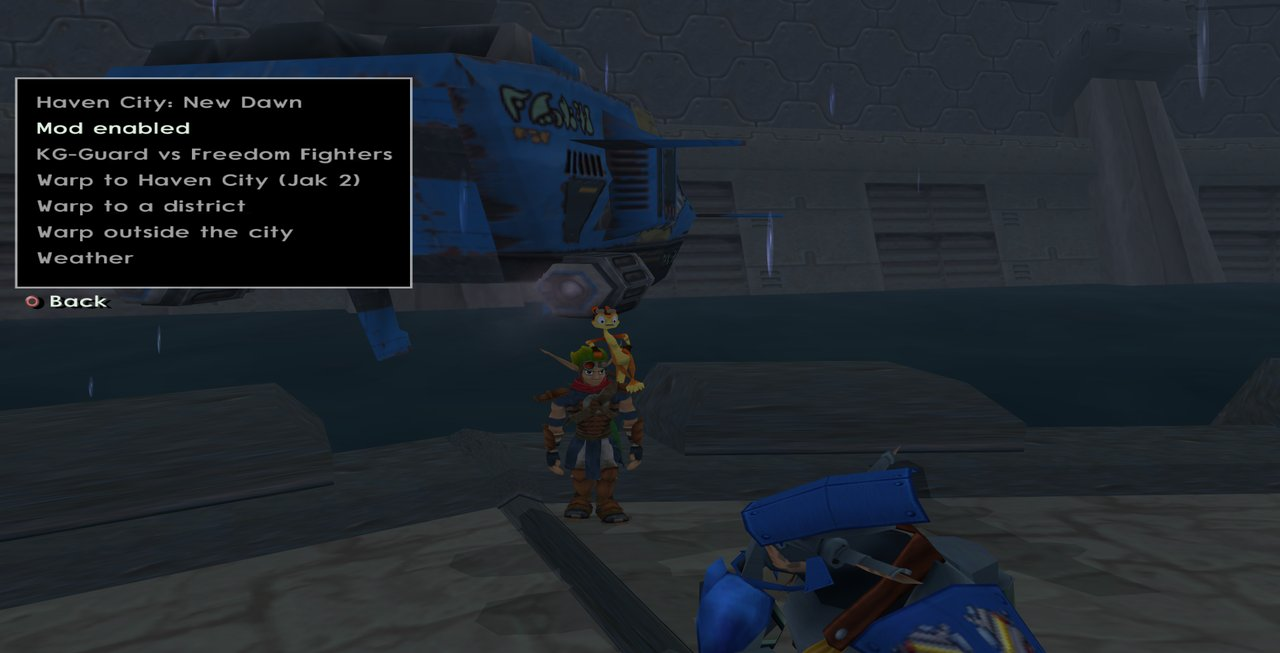
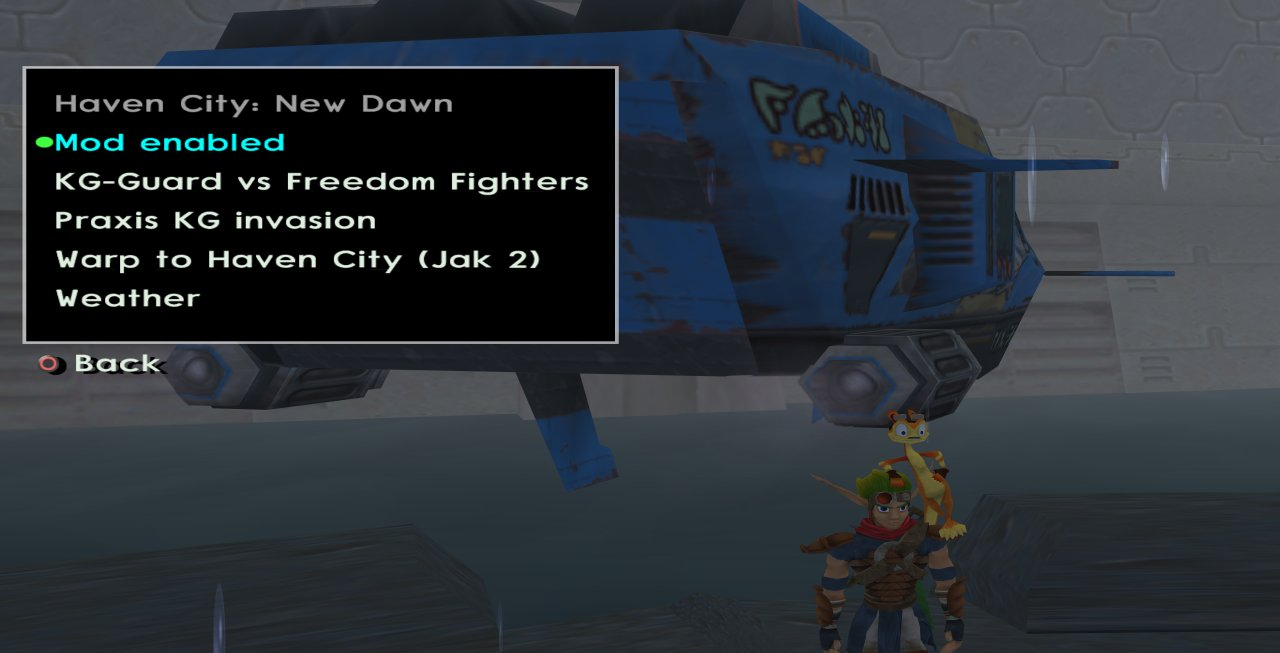
docs: invasion, alert end, war ships, new screenshots (AI-assisted)

diff --git a/docs/modding/current_mod/haven_city_new_dawn_readme.md b/docs/modding/current_mod/haven_city_new_dawn_readme.md
@@ -22,8 +22,9 @@ places, the traffic, the sound, the tools) is in
 ## 1. The mod in one page
 
 The mod puts Jak 2's Haven City and the places around it inside Jak 3, as they are at the end of
-Jak 2, and adds a war mode where Jak 2's Krimzon Guards fight Jak 3's Freedom League. Three kinds
-of work make it:
+Jak 2, and adds two war modes: in Jak 2's world, Jak 2's Krimzon Guards fight Jak 3's Freedom
+League; in Jak 3's city, once its story is over, Praxis's Krimzon Guard invades the conflict zones
+chosen in the menu. Three kinds of work make it:
 
 | Kind | Where | Made by |
 |---|---|---|
@@ -33,7 +34,7 @@ of work make it:
 
 Two rules shape every change:
 
-- **Off by default.** The mod and its war mode are off at each boot. Off, Jak 3 behaves as the
+- **Off by default.** The mod and its war modes are off at each boot. Off, Jak 3 behaves as the
   original game: every hook gives back Jak 3's own answer.
 - **Generated data is never edited by hand.** A fix to a level goes into the port's manifest or
   into the level port itself, then the level port runs again.
@@ -71,7 +72,7 @@ and continues on the next one.
 
 Example in the mod: the city's guard turret has an `idle` state (hidden under its lids) and a
 `hostile` state (popped up, firing). Every frame in `idle`, it checks whether Jak drives a vehicle
-nearby during an alert, and whether its color must change
+nearby during an alert, and turns its model blue if it isn't yet
 (`hj2-cty-guard-turret-color`, `goal_src/jak3/levels/havenj2/havenj2-obs.gc`).
 
 A `defbehavior` is a function that runs as a process (it can read `self`). The war's death cloud
@@ -154,6 +155,8 @@ The hooks the war mode and the color variants add:
 | `engine/ai/enemy.gc` (`'death-start`) | `hj2-war-death-start` | A Krimzon Guard's purple death cloud |
 | `levels/wascity/traffic-util.gc` | `hj2-war-cell-dist` | Units spawn further out during the war |
 | `levels/city/traffic/traffic-engine.gc` | (a test, no call) | No pedestrian spawned when its navigation mesh isn't loaded |
+| `levels/city/traffic/traffic-engine.gc` (`activate-by-type`, `activate-from-params`) | `hj2-invasion-spawn-ok?`, `hj2-war-wake-ok?` | Praxis KG invasion: which units come out in a conflict zone, and which of the pooled guards goes out on a street ([5.9](#59-praxis-kg-invasion)) |
+| `levels/wascity/cty-faction.gc` (`cty-faction-manager-method-14`) | `hj2-invasion-permission` | Praxis KG invasion: a conflict zone's spawn permissions |
 
 ## 4. From Jak 2's disc to Jak 3 levels: the level port
 
@@ -202,9 +205,10 @@ what the level port can do with a model: [reference, 7](haven_city_new_dawn_refe
 ## 5. The war mode, step by step
 
 The war mode (Mods menu, "KG-Guard vs Freedom Fighters") puts Jak 2's Krimzon Guards against
-Jak 3's Freedom League in Jak 2's city and in Jak 3's own. It reuses Jak 3's traffic code: the
-guards are Jak 3's `crimson-guard`, the jetpack guards Jak 3's `flying-turret`. The mod only
-changes how they look, which side they are on and a few rules.
+Jak 3's Freedom League in Jak 2's city and the places around it. It never reaches Jak 3's city
+(`hj2-war-jak2-on?`): there, Praxis KG invasion takes over ([5.9](#59-praxis-kg-invasion)). It
+reuses Jak 3's traffic code: the guards are Jak 3's `crimson-guard`, the jetpack guards Jak 3's
+`flying-turret`. The mod only changes how they look, which side they are on and a few rules.
 
 ![A red jetpack guard firing over the slums](images/war-jetpack-guard.jpg)
 
@@ -221,8 +225,10 @@ when its process is made.
 
 ### 5.2 Looks and sides
 
-During the war, each new guard takes the look that is furthest below its share: 10 blue, 4 red
-rifles, 3 red grenade launchers, 2 yellow rifles, 1 yellow launcher, out of 20. A red or yellow
+During the war, each new guard takes the look that is furthest below its share in proportion: 10
+blue, 4 red rifles, 3 red grenade launchers, 2 yellow rifles, 1 yellow launcher, out of 20. In
+proportion, so that the first guards made alternate the sides: counted in guards missing, the
+blue look came first six times, and the traffic wakes a pool's first guards first. A red or yellow
 guard is drawn with Jak 2's model but plays the blue guard's clips, so it walks, shoots and dies
 exactly like one.
 
@@ -258,6 +264,13 @@ it: Krimzon Guards with the squad's weapons ran 4 times without a crash, with ri
 crashed 3 times in 4. The fix is one marked line: the off-screen change compares the weapon the
 guard would really get. Since then, 16 test runs of war, none crashed.
 
+The same hook hid a second bug. A transport wakes its guards with the weapon code 11, "keep the
+one you have", and a pooled blue guard then kept the squad's guard type for a vehicle's gunner,
+which no guard on foot has. Landing from the jump, it looked for its attack state by weapon, found
+none, and its code ran to its end, which kills a process: the blue guards vanished as they touched
+the ground. The hook now gives a blue guard of the war the rifle or the launcher for anything but
+those two.
+
 ### 5.4 The rifle butt
 
 Jak 3's guards strike with the rifle butt when their target is close. During the war two guards
@@ -292,6 +305,13 @@ The code and the evidence are in the wiki,
 [4.35](../../../.agents/skills/goal-lisp/wiki/jak3.md#435-build-actor-models-their-effects-the-death-cloud-another-mesh-at-runtime).
 
 ![A Krimzon Guard's death cloud](images/war-kg-death.jpg)
+
+The Krimzon Guards of the places around the city (`hj2-kg-soldier`, a `nav-enemy`) had a fourth
+cause: a guard's death clip doesn't run `death-default` itself, it sends the guard `'event-death`,
+and the guard's own event handler runs the effect. A `nav-enemy` ignores that event. The soldier
+now handles it like Jak 3's guard does (`jak2-haven-city-kg.gc`).
+
+![A Krimzon Guard of Dead Town dissolving](images/place-soldier-death.jpg)
 
 Checked side by side: a Krimzon Guard (top) and a blue guard (bottom) killed in front of Jak, shot
 2, 8, 16 and 30 frames after their cloud starts. Both play the same death clip at the same pace,
@@ -333,9 +353,61 @@ own tables stay as they are for Jak 3's city.
 
 A troop transport lands near Jak every 45 to 90 s and drops guards of its side, the two sides in
 turn: a red Krimzon Guard ship with red and yellow guards, a blue Freedom Fighters ship with blue
-guards. The Hellcats and guard bikes fly the lanes during the war too, half red, half blue.
+guards ([5.3](#53-weapons) for why the blue ones once vanished on landing).
 
-![A Freedom Fighters transport dropping a blue guard](images/war-transport-blue.jpg)
+![A Freedom Fighters transport dropping a blue guard](images/war-transport-blue-drop.jpg)
+
+The Hellcats and guard bikes fly the lanes during the war too, half red, half blue, and they are
+rare: one Hellcat and one guard bike at most (`HJ2_WAR_AIR_VEHICLES`, `hj2-guard-vehicle-caps`).
+Each is flown by a guard of its side: a red or yellow Krimzon Guard in a red one
+(`hj2-hellcat-pilot setup-lods`). Each goes after the other side (`hj2-war-vehicle-foe`, every
+frame while it has no target): a red one after the nearest blue guard on foot or Jak within 100 m,
+a blue one after the nearest red or yellow guard, never Jak (`hj2-war-vehicle-may-hunt-jak?`
+keeps it out of the alert's chase and of Jak's hits too). Seen in a test: a blue Hellcat with its
+blue pilot chasing a Krimzon Guard, a red bike with a red pilot chasing a blue guard.
+
+### 5.9 Praxis KG invasion
+
+The second war mode (Mods menu, "Praxis KG invasion"), in Jak 3's city once its story is over (its
+last boss beaten, `hj2-story-done?`). The faction praxis-kguard (the same red and yellow guards as
+the war's, and red jetpack guards) fights the Freedom League in the conflict zones picked in the
+menu, several at once, the port by default. In a zone the two sides are all there is: no KG robot,
+spydroid, Metal Head or Wastelander comes out there, even where Jak 3 had its own fight. Outside
+the zones the city is Jak 3's own, and no ship flies, of either side: no transport, no guard
+vehicle.
+
+![Krimzon Guards of the invasion at the Hip Hog's door, in Jak 3's port](images/invasion-port.jpg)
+
+A zone is a group of Jak 3's territories (`nav-territory-type`, each street of its navigation
+graph has one), the groups Jak 3's faction manager uses itself:
+
+| Menu entry | Jak 3's territories |
+|---|---|
+| Port | `port-ff-deep` to `port-ff-kg-border`, `port-ff-near-mh`, `port-ff-mh-border` |
+| Industrial Section | `inda-*`, `indb-*` (the KG robots' land) |
+| Slums | `sluma-*`, `slumb-ff-deep`, `slumc-ff-deep`, `genc-border`, `genc` |
+| Metal Head land | `mhcity-*` |
+
+![The invasion's submenu](images/menu-invasion.jpg)
+
+Three hooks hold the zones, each giving Jak 3's own answer outside them:
+
+| Hook | Called by | In a conflict zone |
+|---|---|---|
+| `hj2-invasion-permission` | `cty-faction-manager-method-14`, the spawn permission of a faction in a territory | The Freedom League's guards and the KG's slot are allowed (their borrow levels load: CTYPESA with both sides' guards, CTYPESC with the jetpack guards), the KG's pedestrians and the Metal Heads are not |
+| `hj2-invasion-spawn-ok?` | `activate-by-type`, before a unit goes out on a street | Only the two sides' guards, the jetpack guards and the citizens |
+| `hj2-war-wake-ok?` | `hj2-get-from-inactive` (added to `traffic-engine.gc`), the pick of a sleeping unit | A guard of either side, the side with fewer guards out first; outside a zone a Freedom League guard only. A jetpack guard in a zone, a stock flying turret elsewhere |
+
+The guards' pool holds both sides (half Freedom League, half Krimzon Guard, 20 guards; the flying
+turrets' half jetpack guards), so the third hook is what keeps the Krimzon Guards in the zones.
+The street a unit goes out on is only known in `activate-by-type`: it hands its territory to the
+pick through a global, because other wakes (a parking spot, a transport, a mission) give no street
+and left garbage where the pick read one.
+
+Test, with a save whose story isn't over (the test's own copy of `hj2-story-done?` answered yes; no
+task was closed, no save written): in the port, the guards woke alternately red and blue, fought,
+and only blue guards came out in the slums. That city state has few guards, so the zone looked
+thinner than a finished story's city will.
 
 ## 6. Color variants
 
@@ -358,13 +430,13 @@ Where the game uses each color:
 
 | Object | Out of the war | During the war |
 |---|---|---|
-| Anti-air turret | Blue | Red; a hidden turret switches as the war starts or stops |
+| Anti-air turret | Blue | Blue (the city's turrets are the Freedom League's) |
 | Transport | (none) | Red for the Krimzon Guard's ships, blue for the Freedom Fighters' |
-| Hellcat | Jak 3's own | Half red, half blue (by process id) |
-| Guard bike | Blue | Half red, half blue |
+| Hellcat | Jak 3's own | Half red, half blue (by process id), one at most, a pilot of its side |
+| Guard bike | Blue | Half red, half blue, one at most, a rider of its side |
 | Jetpack guard | (none) | Red or blue, by side |
 
-![A blue anti-air turret, war mode off](images/turret-blue.jpg)
+![A blue anti-air turret](images/turret-blue.jpg)
 
 | | |
 |---|---|
@@ -559,7 +631,10 @@ clock (`*display*`'s `real-clock`) so that it goes on while a menu pauses the ga
 
 Each test run starts a fresh `gk` after the build, so it is a cold boot. The final run
 was a retail boot (`task boot-game-retail`'s arguments, no debug segment): the mod and the war
-switched on through the Mods menu's own entries, then 2 minutes of war. To see a vehicle up close,
+switched on through the Mods menu's own entries, the warp taken through the "Warp to Haven City
+(Jak 2)" submenu, then a minute of war. Praxis KG invasion needs Jak 3's story over: its scenario
+answers `hj2-story-done?` itself, in the temporary file only, so no task is closed and no save is
+written. To see a vehicle up close,
 the scenario puts Jak at its controls (`'change-mode 'pilot` with that vehicle): the camera follows
 it.
 
@@ -569,7 +644,12 @@ start fails. Saves and settings stay from one boot to the next
 
 ## 9. Known issues
 
-- **Not played by a player yet:** the war mode and the color variants were tested in boots driven by test scenarios,
-  the last one a retail boot ([8](#8-building-and-testing)).
+- **Not played by a player yet:** the war modes, the color variants and the alert's end were
+  tested in boots driven by test scenarios, the last one a retail boot ([8](#8-building-and-testing)).
+- **The turret and Dark Jak or Light Jak:** a city turret popping up as Jak turns into Dark Jak or
+  Light Jak was not seen in tests (it stayed down for both, war on or off); its check now leaves
+  them out by name.
+- **Praxis KG invasion with a finished story:** tested with a save whose story isn't over
+  ([5.9](#59-praxis-kg-invasion)).
 - **The repository's history** still holds `.glb` files, and the repository is public: [7](#7-what-the-repository-holds-and-what-it-doesnt).
 - More open points: [reference, 18](haven_city_new_dawn_reference.md#18-not-done-yet).

diff --git a/docs/modding/current_mod/haven_city_new_dawn_reference.md b/docs/modding/current_mod/haven_city_new_dawn_reference.md
@@ -445,13 +445,28 @@ in Jak 2's numbers.
 ### 8.3 Jak 2's alert
 
 **What you see:** hit a citizen or a guard, and the minimap flashes, the music turns to its alert
-mode (or the alarm sounds), and guards hunt Jak. 30 s without a new offence, the alert ends. Every
-8 kills raise it.
+mode (or the alarm sounds), and guards hunt Jak. Every 8 kills raise it. It ends like Jak 2's:
+
+| Alert | Ends |
+|---|---|
+| Low (level 1, the tazers' arrest) | 30 s after the last offence; the guards let go of Jak at once, the alarm stops 3 s later |
+| High (2 and up) | Once the 30 s are over and no guard or guard vehicle has seen Jak for 3 s: Jak loses them, or hides |
+
+Each new offence starts the 30 s again. Hiding against a wall (`target-hide`) drains them three
+times as fast, as in Jak 2.
 
 **How:** Jak 3 kept Jak 2's alert code (`ff-squad-control-method-45`) but only raises it in its own
 city. The hub's DGO links its own version of that method, with Jak 2's five alert levels
-(`*hj2-alert-level-settings*`) and timer. Jak is the squad's target every frame; the guards get
-the hatred Jak 3 gives a guard Jak attacks.
+(`*hj2-alert-level-settings*`), its timer and its end (`hj2-alert-update`, `hj2-alert-seen-count`).
+Jak is the squad's target every frame; the guards get the hatred Jak 3 gives a guard Jak attacks.
+
+**Trap:** Jak 3's attack controller picks a new target for a guard only while the guard keeps some
+hatred for the one it has (`mission-squad-control-method-12`). Clearing the hatred alone left
+every guard that once hunted Jak on him for good: after the alert ended, 5 guards kept tazing Jak
+for the next 70 s of a test. At the end the mod drops the guard's target itself, as the controller
+does for a target that is gone (`hj2-alert-drop-jak`). Tested: a low alert ends at 30 s with no
+guard left on Jak; a high one holds while guards see Jak and ends 3 s after he is out of their
+sight.
 
 ### 8.4 Hellcats and guard bikes
 
@@ -460,8 +475,9 @@ the hatred Jak 3 gives a guard Jak attacks.
   wrapped copy of `traffic-object-spawn`.
 - **Guard bikes:** Jak 2's model on Jak 3's bike base, `hj2-guard-bike`.
 - Both fly the lanes, chase Jak from alert level 2 with Jak 2's pursuit rules, and can be stolen;
-  R1 fires their gun. In the war mode they fly in both sides' colors
-  ([guide, 6](haven_city_new_dawn_readme.md#6-color-variants)).
+  R1 fires their gun. In the war mode they fly in both sides' colors, one of each at most, with a
+  pilot of their side, and go after the other side
+  ([guide, 5.8](haven_city_new_dawn_readme.md#58-transports-and-vehicles)).
 
 ### 8.5 Minimap
 
@@ -473,7 +489,9 @@ guard vehicles larger ones. Three one-line changes of `minimap.gc` (marked): dra
 ### 8.6 War mode
 
 How the war works is in the [guide, 5](haven_city_new_dawn_readme.md#5-the-war-mode-step-by-step).
-Outside the city, Krimzon Guards also stand in 10 places: the level port puts a spawner
+It stays in Jak 2's world; Jak 3's city has Praxis KG invasion instead
+([guide, 5.9](haven_city_new_dawn_readme.md#59-praxis-kg-invasion)). Outside the city, Krimzon
+Guards also stand in 10 places: the level port puts a spawner
 (`hj2-kg-spawner`, `jak2-haven-city-kg.gc`) at each spot where Jak 2 put an enemy (374 in all).
 About one spawner in three is used (35 %, drawn as the level loads), and at most 24 soldiers stand
 at once.
@@ -516,7 +534,7 @@ Three traps:
   light), or runs Jak 2's day and night.
 - **Weather.** Jak 2 and Jak 3 share their weather system. The Mods menu picks Jak 3's changing
   weather or a fixed one (sunny, cloudy, foggy, light rain, rain, thunderstorm, snow), for the whole
-  game. A process, `hj2-weather-driver`, holds the choice every frame, so a Jak 3 level or mission
+  game, with the mod on or off. A process, `hj2-weather-driver`, holds the choice every frame, so a Jak 3 level or mission
   can't take it over.
 - **Trap:** a weather picked while the menu pauses the game left rain drops hanging in the air: the
   particles are paused, but the sky is not. The change now waits for the menu to close.
@@ -525,17 +543,20 @@ Three traps:
 
 ### 11.1 Mods menu
 
-L3 + SELECT, Mods, Haven City: New Dawn. Every entry but "Mod enabled" is greyed out while the mod
-is off.
+L3 + SELECT, Mods, Haven City: New Dawn. Every entry but "Mod enabled" and "Weather" is greyed out
+while the mod is off.
 
 | Entry | Does |
 |---|---|
 | Mod enabled | Switches the mod on or off; off at each boot |
-| Warp to Haven City (Jak 2) | Warps to the underground hideout |
-| Warp to a district | Warps to a district, or to a place in it |
-| Warp outside the city | Warps to a place outside the city, or back to Jak 3's Freedom HQ |
-| Weather | The weather, and a Time of day submenu |
-| KG-Guard vs Freedom Fighters | The war mode |
+| KG-Guard vs Freedom Fighters | The war mode, in Jak 2's world |
+| Praxis KG invasion | Its switch, and its conflict zones in Jak 3's city (Port, Industrial Section, Slums, Metal Head land) |
+| Warp to Haven City (Jak 2) | A submenu: Warp to Jak 2 (the underground hideout), Warp to a district (a district, or a place in it), Warp outside the city (a place outside the city, or back to Jak 3's Freedom HQ) |
+| Weather | The weather, and a Time of day submenu; usable with the mod off |
+
+![The Mods menu of the mod](images/mods-menu.jpg)
+
+![The warps to Jak 2's world](images/menu-warps.jpg)
 
 Every warp goes through a continue point, never through the debug command `bg`: a continue point
 makes the game unload what it doesn't need before loading the new levels, so the city fits in

diff --git a/README.md b/README.md
@@ -34,10 +34,13 @@ Freedom League.
   the fortress and its prison, the dig site and more, reached through Jak 2's doors.
 - **The end of Jak 2:** every level as the game leaves it, with its hazards and no enemies.
 - **A living city:** citizens, guards and vehicles, Jak 2's Hellcats and guard bikes, Jak 2's alert.
-- **War mode:** Jak 2's Krimzon Guards against Jak 3's Freedom League, in both games' cities.
+- **War mode:** Jak 2's Krimzon Guards against Jak 3's Freedom League, in Jak 2's city and the
+  places around it.
+- **Praxis KG invasion:** once Jak 3's story is over, Praxis's Krimzon Guard fights the Freedom
+  League in the parts of Jak 3's city you pick.
 - **Jak 2's sound:** its music, ambiences and voices.
 - **Mini-games:** Whack-a-Metal-Head, Onin's bubble game, Vin's game.
-- **Time and weather** set from the menu.
+- **Time and weather** set from the menu; the weather works with the mod off too.
 - **Travelling:** warps to every place, time gates between the two games, saving anywhere.
 
 ## Controls
@@ -50,11 +53,12 @@ Freedom League.
 | Menu entry | Does |
 |---|---|
 | Mod enabled | Switches the mod on or off (off at each boot); off, Jak 3 is unchanged |
-| KG-Guard vs Freedom Fighters | Switches the war mode on or off (off at each boot); greyed out while the mod is off |
-| Warp to Haven City (Jak 2) | Warps to the underground hideout |
-| Warp to a district | Warps to each district or to a place in it |
-| Warp outside the city | Warps to the places outside the city, or back to Jak 3's Freedom HQ |
-| Weather | The weather in the whole game, and the hour in Jak 2's levels |
+| KG-Guard vs Freedom Fighters | Switches the war mode on or off (off at each boot) |
+| Praxis KG invasion | Switches the invasion on or off (off at each boot), and picks its conflict zones in Jak 3's city: the port (by default), the industrial section, the slums, the Metal Heads' land |
+| Warp to Haven City (Jak 2) | Warp to Jak 2 (the underground hideout), Warp to a district, Warp outside the city (or back to Jak 3's Freedom HQ) |
+| Weather | The weather in the whole game, and the hour in Jak 2's levels; usable with the mod off |
+
+The war, the invasion and the warps are greyed out while the mod is off.
 
 ## Download & Play via OpenGOAL Launcher (Players)
 
